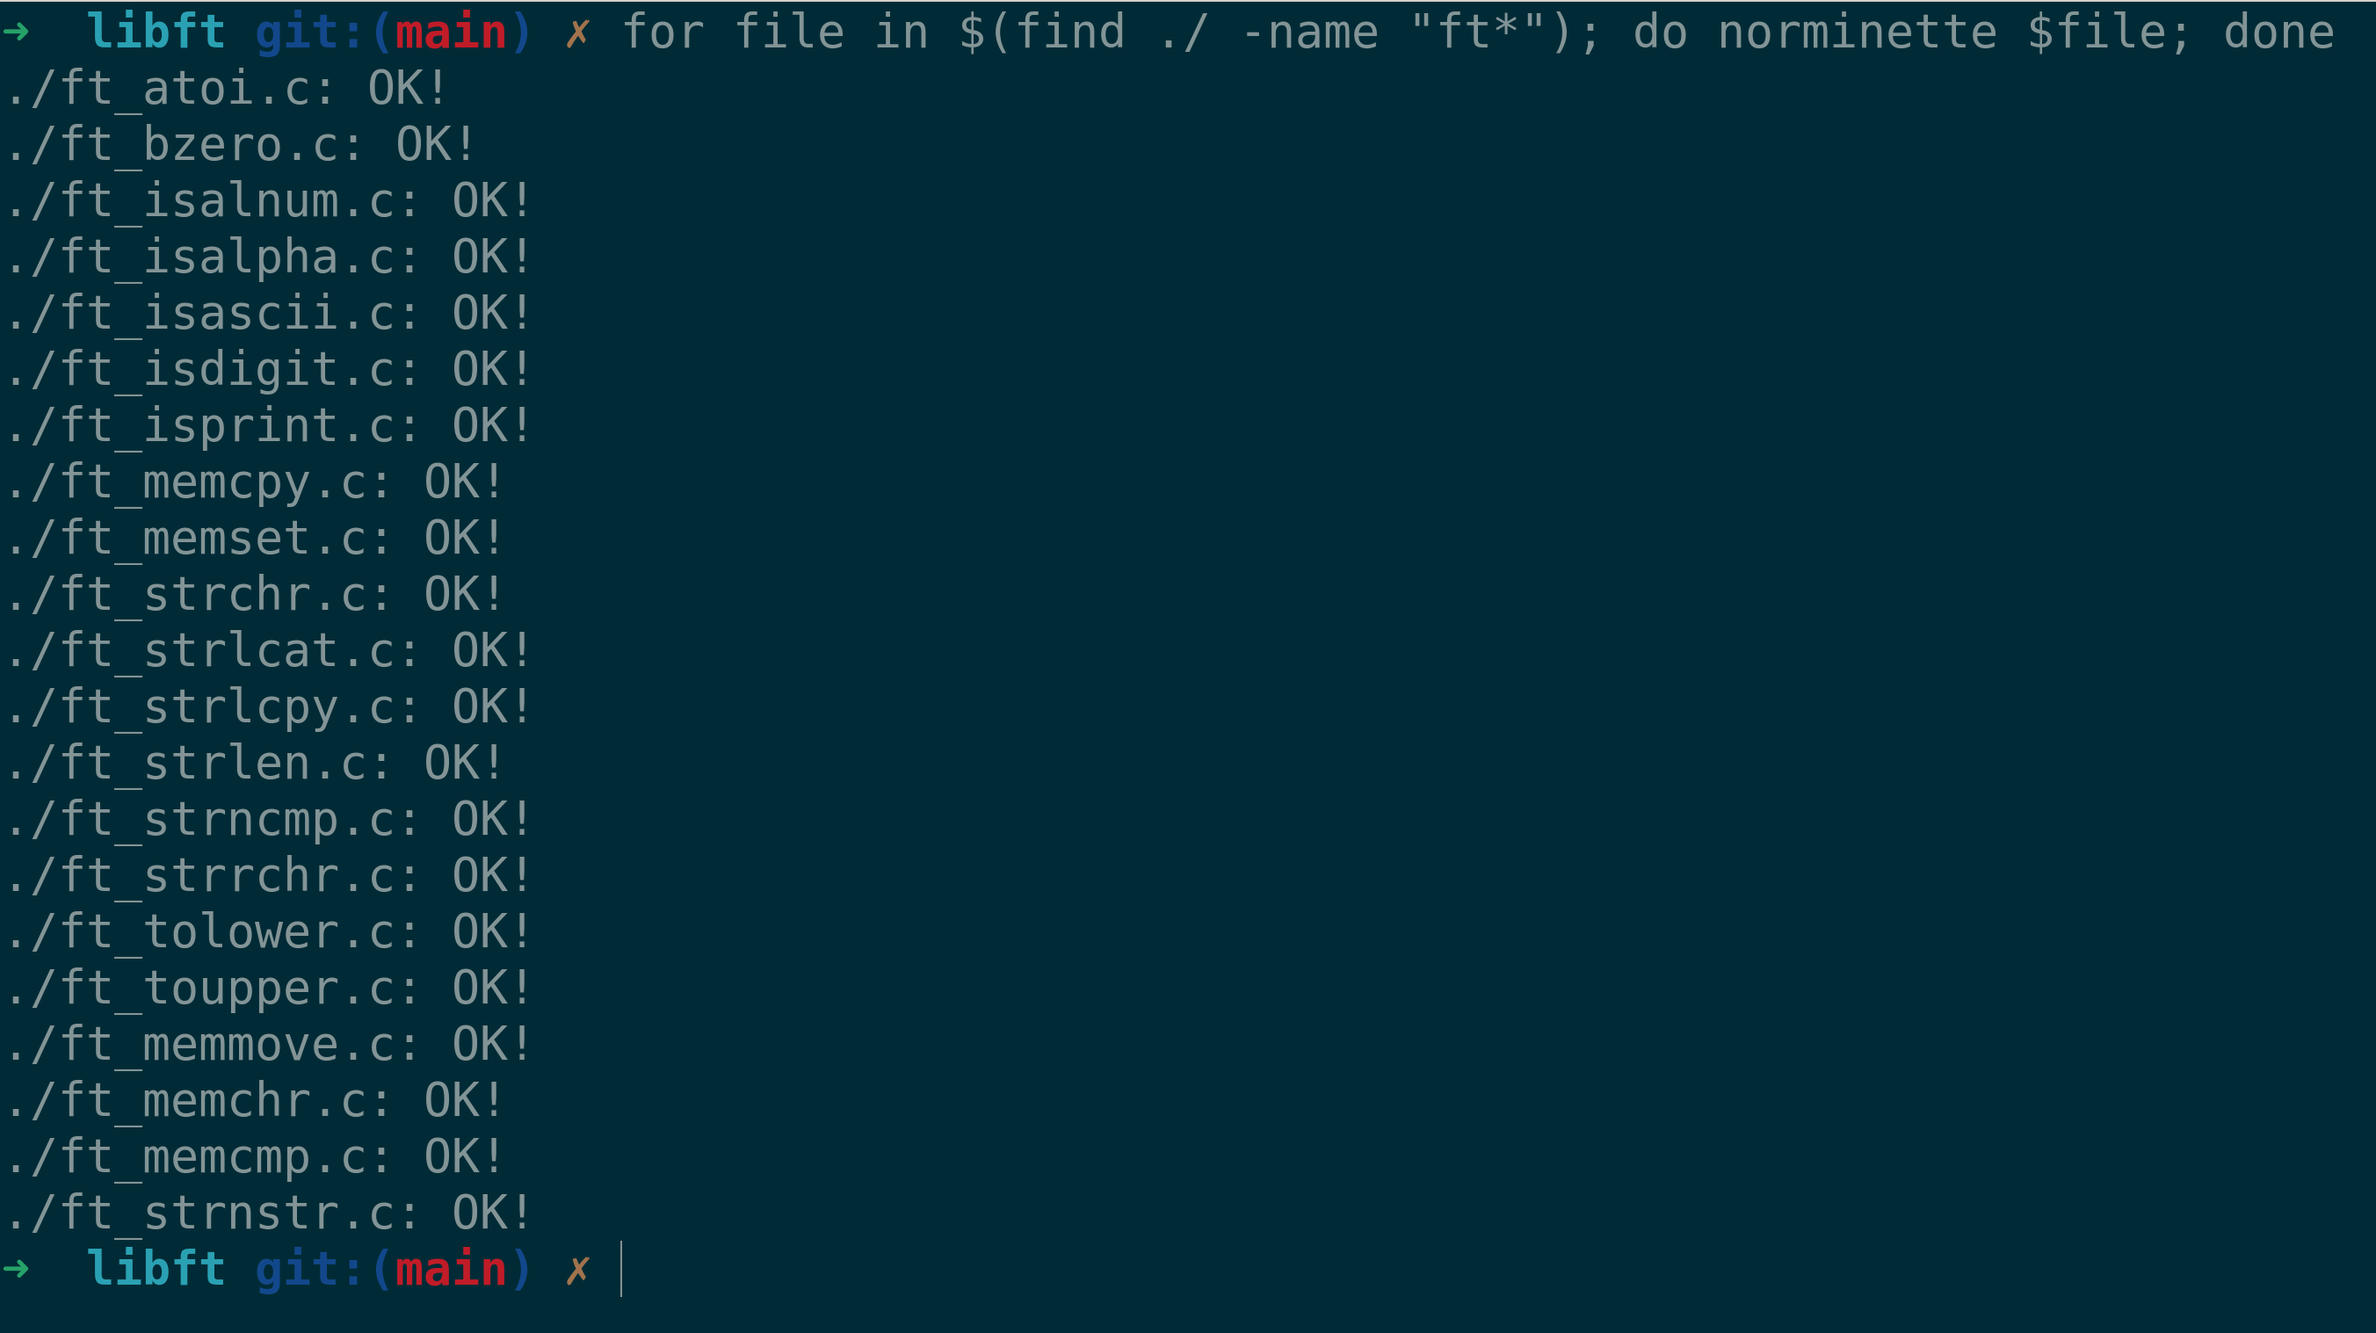
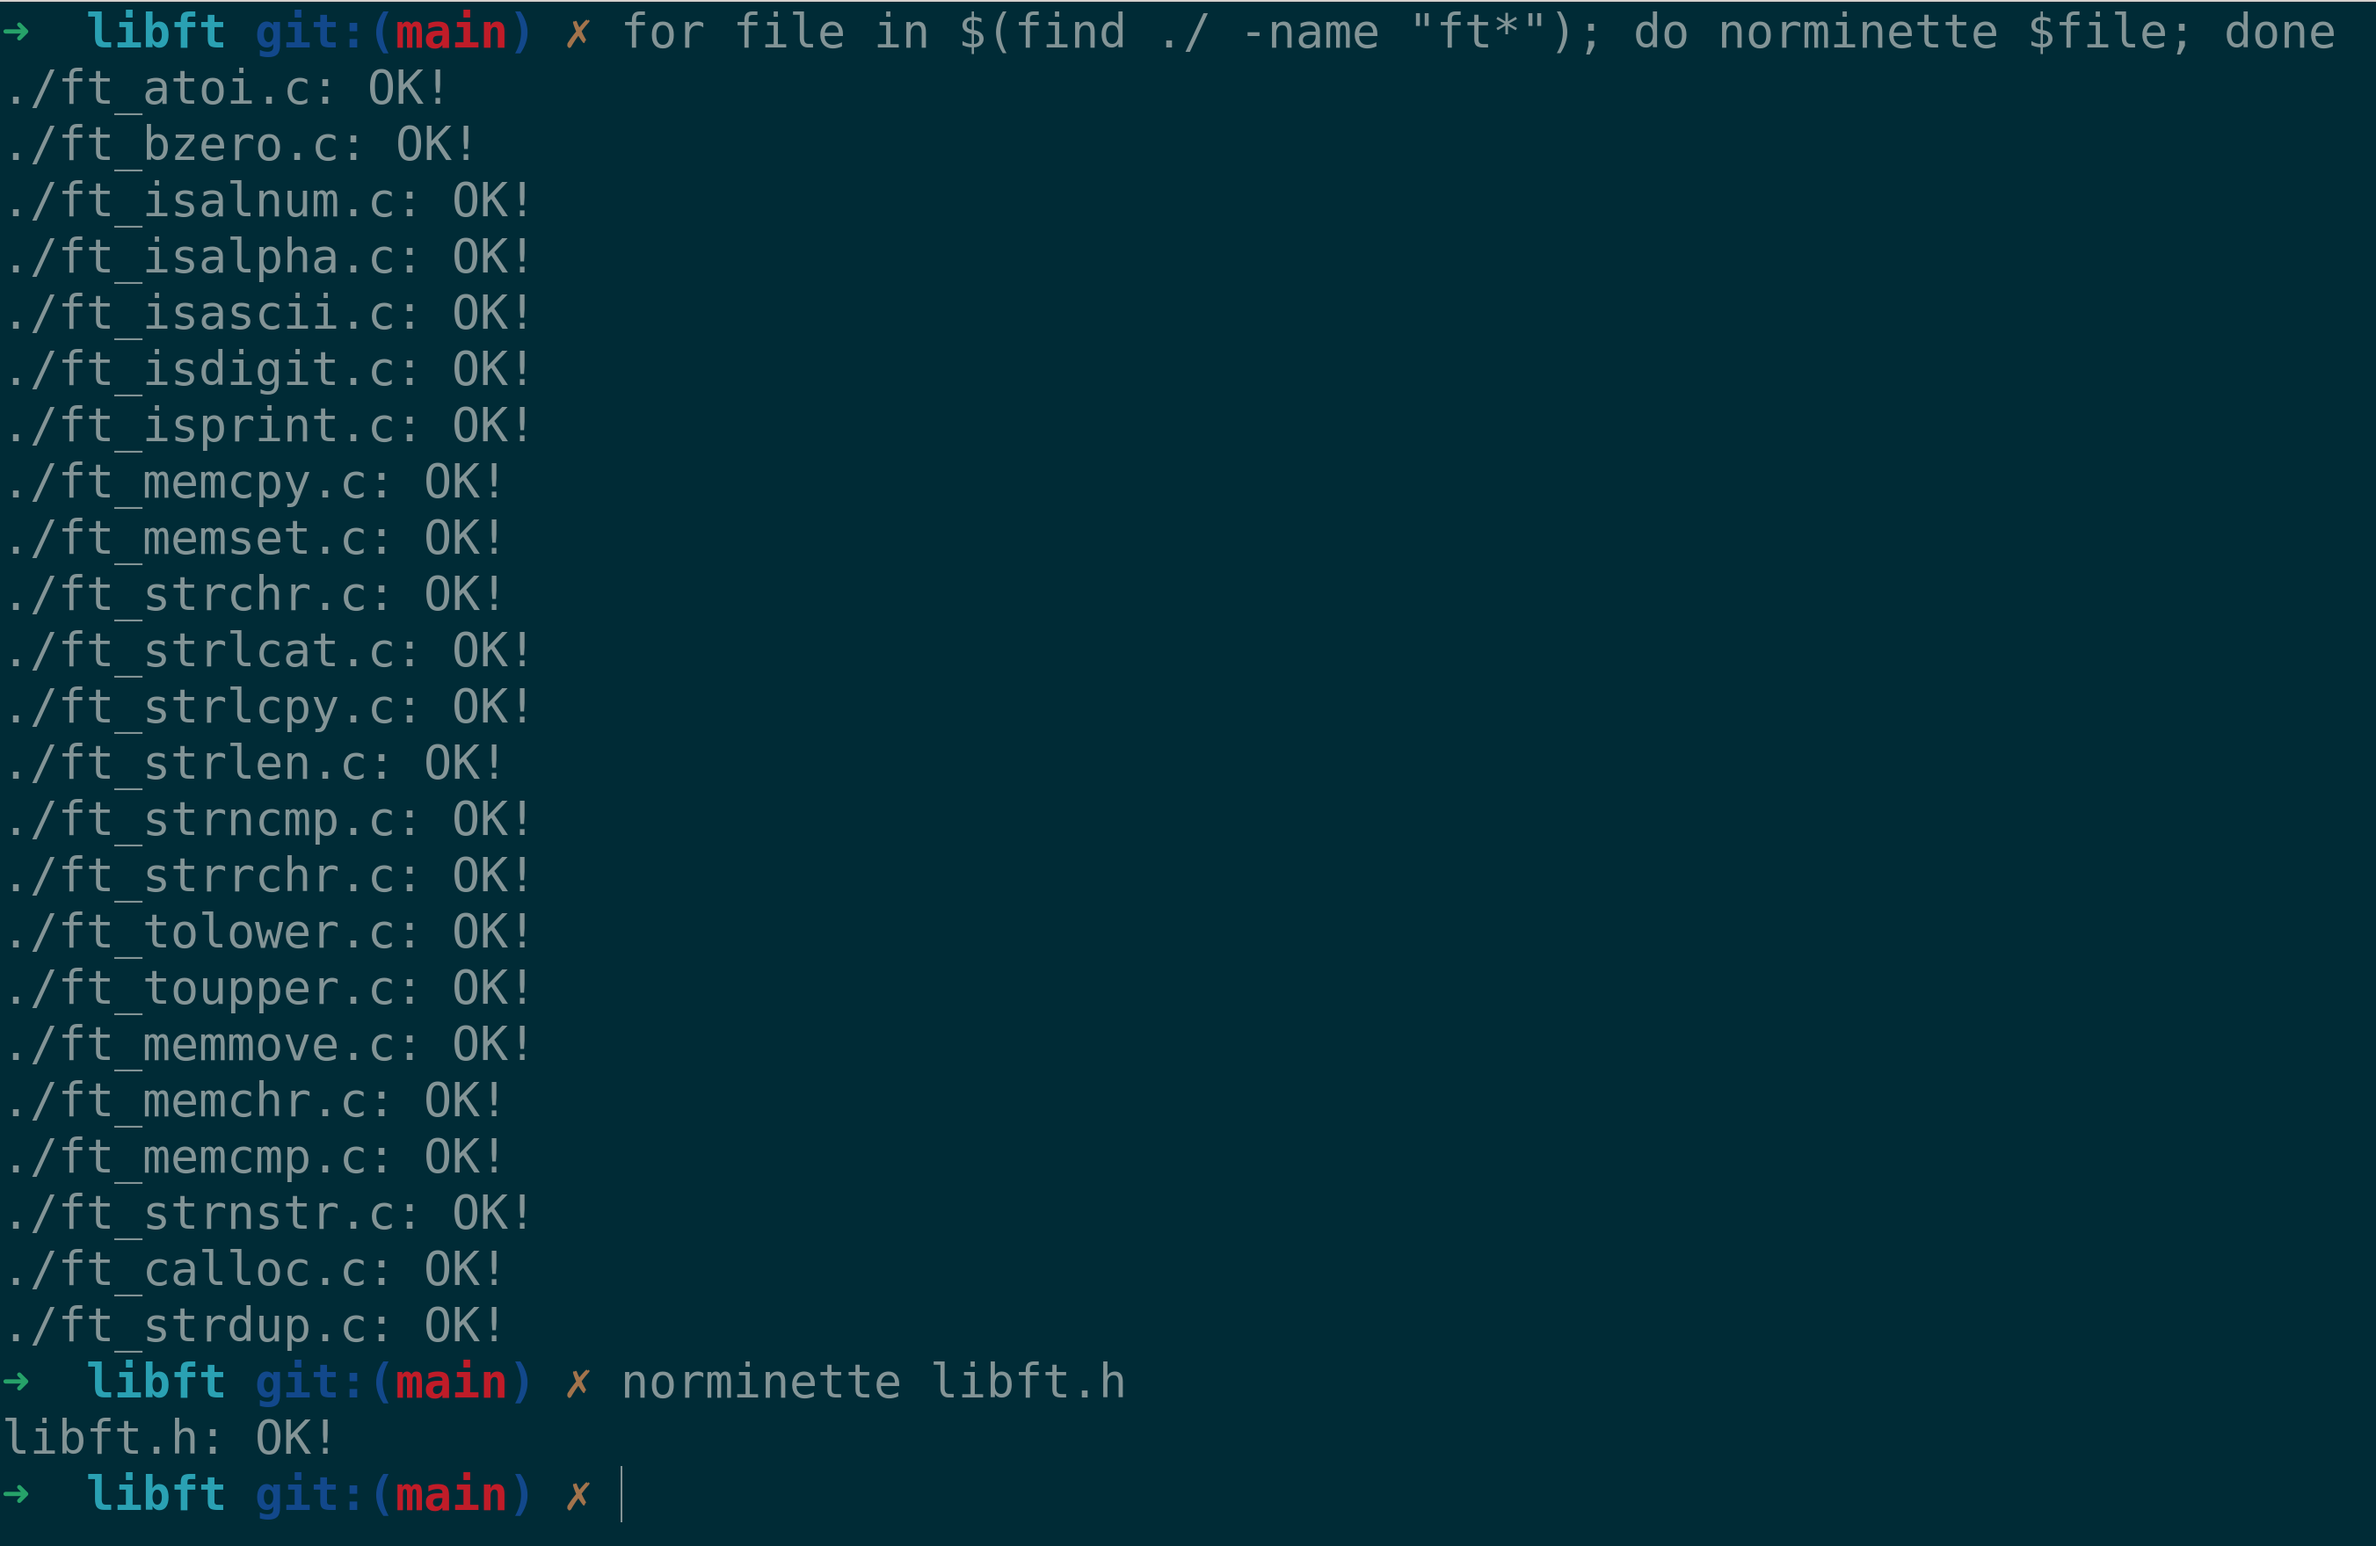
yeeeee

diff --git a/libft/main.c b/libft/main.c
@@ -1,4 +1,6 @@
 #include <stdio.h>
+#include <stdlib.h>
+#include <string.h>
 #include "libft.h"
 
 // Test function for ft_isalpha
@@ -106,19 +108,142 @@ void test_atoi(void)
     printf("\"+99abc\" -> %d (Expected: 99) -> %s\n", ft_atoi("+99abc"), ft_atoi("+99abc") == 99 ? "PASS" : "FAIL");
 }
 
+void	test_bzero(void)
+{
+	char buffer[5] = "abcd";
+	ft_bzero(buffer, 2);
+	printf("\n--- ft_bzero ---\n");
+	printf("First 2 bytes zero? -> %s\n", buffer[0] == 0 && buffer[1] == 0 ? "PASS" : "FAIL");
+}
+
+void	test_strchr(void)
+{
+	printf("\n--- ft_strchr ---\n");
+	const char *s = "42 Network";
+	printf("Find 'N' in \"%s\" -> %s\n", s, ft_strchr(s, 'N') ? "PASS" : "FAIL");
+}
+
+void	test_strrchr(void)
+{
+	printf("\n--- ft_strrchr ---\n");
+	const char *s = "banana";
+	printf("Last 'a' in \"%s\" -> %s\n", s, ft_strrchr(s, 'a') ? "PASS" : "FAIL");
+}
+
+void	test_memmove(void)
+{
+	printf("\n--- ft_memmove ---\n");
+	char str[] = "abcdef";
+	ft_memmove(str + 2, str, 4);
+	printf("After memmove: %s -> %s\n", str, strcmp(str, "ababcd") == 0 ? "PASS" : "FAIL");
+}
+
+void	test_memcpy(void)
+{
+	printf("\n--- ft_memcpy ---\n");
+	char dest[6] = "";
+	const char *src = "Hello";
+	ft_memcpy(dest, src, 6);
+	printf("Copied \"%s\" -> \"%s\" -> %s\n", src, dest, strcmp(dest, src) == 0 ? "PASS" : "FAIL");
+}
+
+void	test_memchr(void)
+{
+	printf("\n--- ft_memchr ---\n");
+	char s[] = "abcde";
+	void *res = ft_memchr(s, 'c', 5);
+	printf("Find 'c' in \"%s\" -> %s\n", s, res != NULL ? "PASS" : "FAIL");
+}
+
+void	test_memcmp(void)
+{
+	printf("\n--- ft_memcmp ---\n");
+	printf("\"abc\" vs \"abc\" -> %s\n", ft_memcmp("abc", "abc", 3) == 0 ? "PASS" : "FAIL");
+	printf("\"abc\" vs \"abd\" -> %s\n", ft_memcmp("abc", "abd", 3) < 0 ? "PASS" : "FAIL");
+}
+
+void	test_strnstr(void)
+{
+	printf("\n--- ft_strnstr ---\n");
+	const char *hay = "Hello World";
+	const char *needle = "World";
+	char *res = ft_strnstr(hay, needle, 11);
+	printf("Find \"%s\" in \"%s\" -> %s\n", needle, hay, res ? "PASS" : "FAIL");
+}
+
+void	test_memset(void)
+{
+	printf("\n--- ft_memset ---\n");
+	char buffer[5] = "abcd";
+	ft_memset(buffer, 'x', 3);
+	printf("After memset: %s -> %s\n", buffer, strncmp(buffer, "xxxd", 4) == 0 ? "PASS" : "FAIL");
+}
+
+void	test_calloc(void)
+{
+	printf("\n--- ft_calloc ---\n");
+	int	*arr = (int *)ft_calloc(5, sizeof(int));
+	int	pass = 1;
+	size_t	i = 0;
+
+	if (!arr)
+	{
+		printf("Memory allocation failed -> FAIL\n");
+		return ;
+	}
+	while (i < 5)
+	{
+		if (arr[i] != 0)
+		{
+			pass = 0;
+			break ;
+		}
+		i++;
+	}
+	printf("Zero initialized? -> %s\n", pass ? "PASS" : "FAIL");
+	free(arr);
+}
+
+void	test_strdup(void)
+{
+	printf("\n--- ft_strdup ---\n");
+	const char	*src = "Hello 42";
+	char		*copy = ft_strdup(src);
+
+	if (!copy)
+	{
+		printf("Memory allocation failed -> FAIL\n");
+		return ;
+	}
+	printf("Original: \"%s\", Copy: \"%s\" -> %s\n",
+		src, copy, strcmp(src, copy) == 0 ? "PASS" : "FAIL");
+	free(copy);
+}
+
 int main(void)
 {
-    test_isalpha();
-    test_isdigit();
-    test_isalnum();
-    test_isascii();
-    test_isprint();
-    test_toupper();
-    test_tolower();
-    test_strlen();
-    test_strlcpy();
-    test_strlcat();
-    test_strncmp();
-    test_atoi();
-    return 0;
+	test_isalpha();
+	test_isdigit();
+	test_isalnum();
+	test_isascii();
+	test_isprint();
+	test_toupper();
+	test_tolower();
+	test_strlen();
+	test_strlcpy();
+	test_strlcat();
+	test_strncmp();
+	test_atoi();
+	test_calloc();
+	test_strdup();
+	test_bzero();
+	test_strchr();
+	test_strrchr();
+	test_memmove();
+	test_memcpy();
+	test_memchr();
+	test_memcmp();
+	test_strnstr();
+	test_memset();
+	return (0);
 }

diff --git a/libft/ft_strdup.c b/libft/ft_strdup.c
@@ -1,28 +1,33 @@
 /* ************************************************************************** */
 /*                                                                            */
 /*                                                        :::      ::::::::   */
-/*   ft_strchr.c                                        :+:      :+:    :+:   */
+/*   ft_strdup.c                                        :+:      :+:    :+:   */
 /*                                                    +:+ +:+         +:+     */
-/*   By: jfontbon <jfontbon@student.42barcelona.co  +#+  +:+       +#+        */
+/*   By: jfontbon <marvin@42.fr>                    +#+  +:+       +#+        */
 /*                                                +#+#+#+#+#+   +#+           */
-/*   Created: 2025/05/07 19:58:14 by jfontbon          #+#    #+#             */
-/*   Updated: 2025/05/07 19:58:32 by jfontbon         ###   ########.fr       */
+/*   Created: 2025/05/09 11:57:18 by jfontbon          #+#    #+#             */
+/*   Updated: 2025/05/09 12:01:33 by jfontbon         ###   ########.fr       */
 /*                                                                            */
 /* ************************************************************************** */
 
+#include <stdlib.h>
 #include "libft.h"
 
-char	*ft_strchr(const char *s, int c)
+char	*ft_strdup(const char *s)
 {
-	while (*s != '\0')
+	size_t	i;
+	char	*ptr;
+
+	i = 0;
+	while (s[i] != '\0')
+		i++;
+	ptr = (char *)malloc(i + 1);
+	i = 0;
+	while (s[i] != '\0')
 	{
-		if (*s == (char)c)
-			return ((char *)s);
-		else
-			s++;
+		ptr[i] = s[i];
+		i++;
 	}
-	if (*s == (char)c)
-		return ((char *)s);
-	else
-		return (NULL);
+	ptr[i] = '\0';
+	return (ptr);
 }

diff --git a/libft/ft_calloc.c b/libft/ft_calloc.c
@@ -1,0 +1,33 @@
+/* ************************************************************************** */
+/*                                                                            */
+/*                                                        :::      ::::::::   */
+/*   ft_calloc.c                                        :+:      :+:    :+:   */
+/*                                                    +:+ +:+         +:+     */
+/*   By: jfontbon <marvin@42.fr>                    +#+  +:+       +#+        */
+/*                                                +#+#+#+#+#+   +#+           */
+/*   Created: 2025/05/09 11:54:05 by jfontbon          #+#    #+#             */
+/*   Updated: 2025/05/09 11:54:28 by jfontbon         ###   ########.fr       */
+/*                                                                            */
+/* ************************************************************************** */
+
+#include <stdlib.h>
+#include "libft.h"
+
+void	*ft_calloc(size_t count, size_t size)
+{
+	unsigned char	*ptr;
+	size_t			total;
+	size_t			i;
+
+	total = count * size;
+	ptr = (unsigned char *)malloc(total);
+	if (!ptr)
+		return (NULL);
+	i = 0;
+	while (i < total)
+	{
+		ptr[i] = 0;
+		i++;
+	}
+	return ((void *)ptr);
+}

diff --git a/libft/libft.h b/libft/libft.h
@@ -30,11 +30,13 @@ int		ft_toupper(int c);
 void	*ft_memset(void *s, int c, size_t n);
 void	ft_bzero(void *s, size_t n);
 void	*ft_memcpy(void *dest, const void *src, size_t n);
-char	*strchr(const char *s, int c);
-char	*strrchr(const char *s, int c);
+char	*ft_strchr(const char *s, int c);
+char	*ft_strrchr(const char *s, int c);
 void	*ft_memmove(void *dest, const void *src, size_t n);
 void	*ft_memchr(const void *s, int c, size_t n);
 int		ft_memcmp(const void *s1, const void *s2, size_t n);
 char	*ft_strnstr(const char *haystack, const char *needle, size_t len);
+char	*ft_strdup(const char *s);
+void	*ft_calloc(size_t count, size_t size);
 
 #endif
